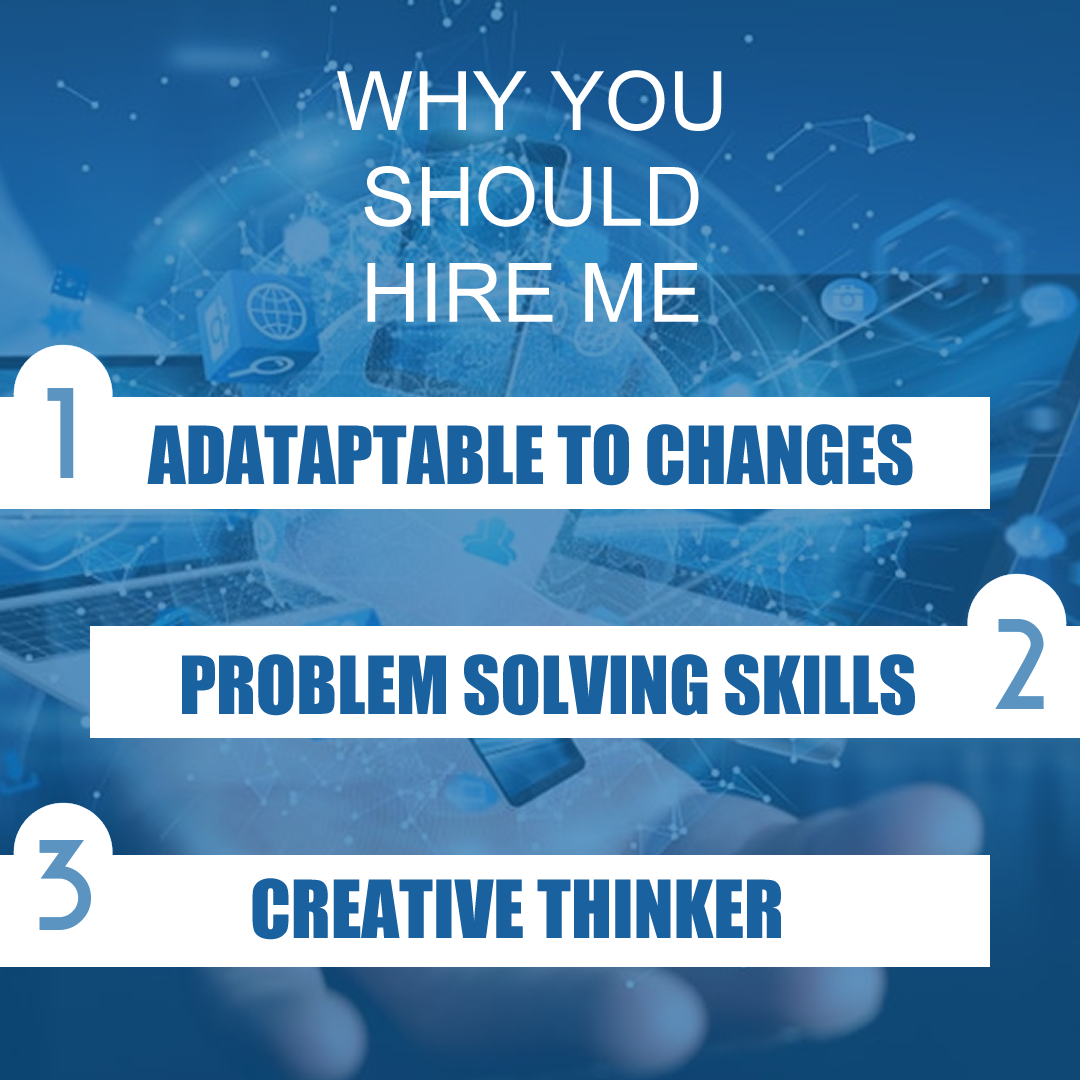
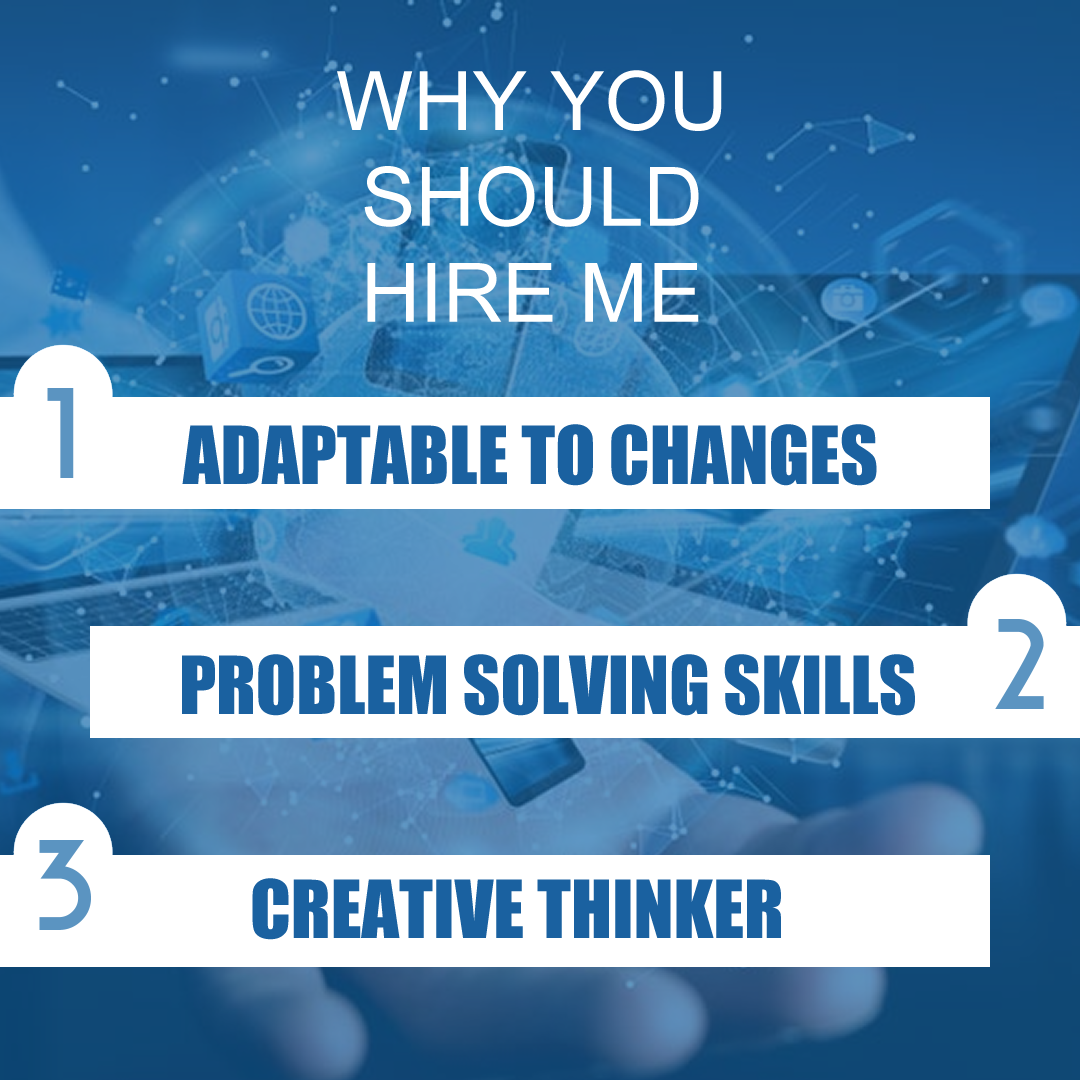
Final

Changed region(s): [[0.1222, 0.3667, 0.8556, 0.4583]]

diff --git a/index.html b/index.html
@@ -179,7 +179,7 @@
                             <div class="cb">
                                 <img src="imgs/hITE.png" alt="">
                             </div>
-                            ❤ <span style="color: #E2E5E9;">2M, Pyang Reacted</span>
+                            ❤ <span style="color: #E2E5E9;">2M, Neil and others R...</span>
                             <div class="cf">
                                 <div class="lk oabtn">
                                     <svg xmlns="http://www.w3.org/2000/svg" width="20" height="20" viewBox="0 0 24 24" fill="none" stroke="currentColor" stroke-width="2" stroke-linecap="round" stroke-linejoin="round" class="feather feather-thumbs-up"><path d="M14 9V5a3 3 0 0 0-3-3l-4 9v11h11.28a2 2 0 0 0 2-1.7l1.38-9a2 2 0 0 0-2-2.3zM7 22H4a2 2 0 0 1-2-2v-7a2 2 0 0 1 2-2h3"/></svg>
@@ -283,7 +283,6 @@
         </main>
         <footer>
             <h1>This Portfolio is a Partial Fulfillment of the Requirement of the Course System Administration</h1>
-            <img src="imgs/Gayle_1.png" alt="">
         </footer>
     </body>
 </html>
